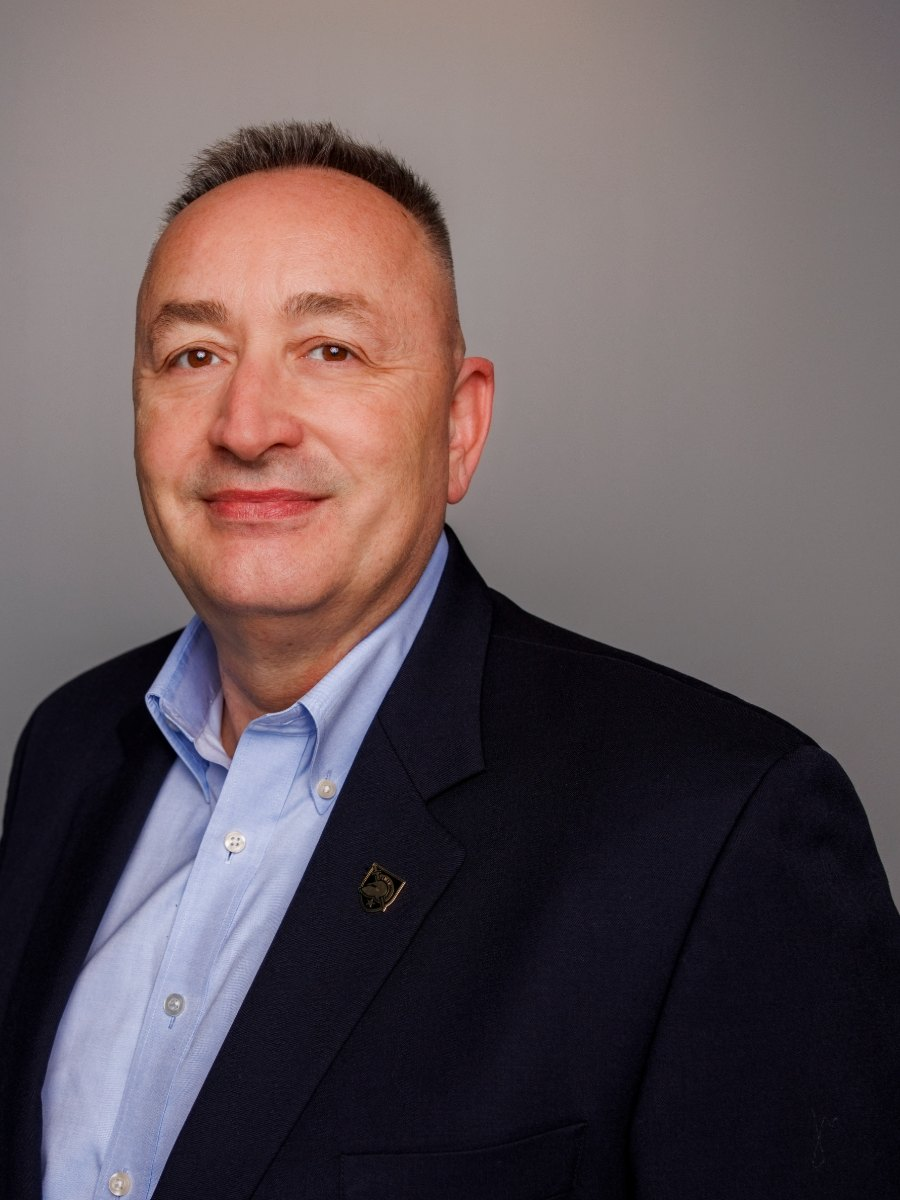
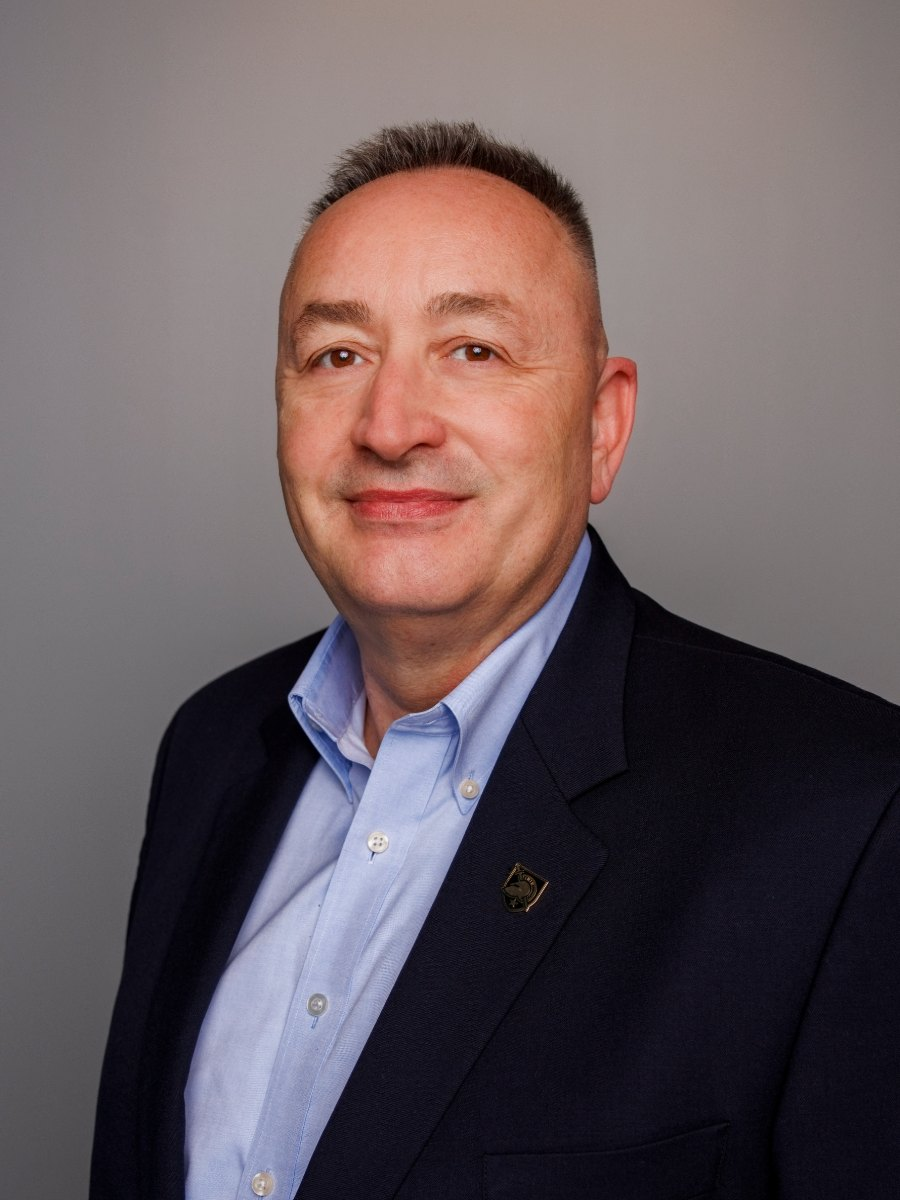
Stop cropping Tom's face
Two causes, both fixed.

The crop was centred on his body, which sits right of centre in the
original, rather than on his head at about 50.5%. That pushed his face
left inside the 900x1200 file.

The frame then cropped it a second time. On desktop the photo stretched
to card height, so Tom's taller card produced a much narrower frame
than Charles's and cover trimmed the sides. Every portrait frame is now
a fixed 3:4 at every breakpoint, matching the source files exactly, so
cover has nothing left to trim. Mobile was 4:5 and is now 3:4 too.

Side effect worth knowing: the photo no longer stretches to fill the
card, so there is card background below it on the taller card. Easy to
switch to vertical centring if that reads better.

diff --git a/index.html b/index.html
@@ -541,12 +541,17 @@ button{ font:inherit; color:inherit; background:none; border:none; cursor:pointe
 @media (max-width:760px){ .guest__card{ grid-template-columns:1fr; text-align:center; justify-items:center; } }
 .guest__photo{
   position:relative; border-radius:var(--r-md); overflow:hidden;
-  border:1px solid var(--hair); aspect-ratio:4/5; width:100%; max-width:300px;
+  border:1px solid var(--hair); aspect-ratio:3/4; width:100%; max-width:300px;
   background:var(--raised-2);
 }
 .guest__photo img{ width:100%; height:100%; object-fit:cover; object-position:center top; }
 /* let the portrait run the full height of the card on desktop */
-@media (min-width:761px){ .guest__photo{ aspect-ratio:auto; height:100%; } }
+/* Fixed 3:4 on desktop, matching the source files exactly, so cover never
+   crops a second time. Stretching to card height was cutting faces off on
+   the taller card. align-self:start keeps it from filling the row. */
+@media (min-width:761px){
+  .guest__photo{ aspect-ratio:3/4; height:auto; align-self:start; }
+}
 .guest__photo::after{ content:""; position:absolute; inset:0;
   background:linear-gradient(to top, rgba(5,15,31,.6), transparent 45%); }
 .guest__tag{
